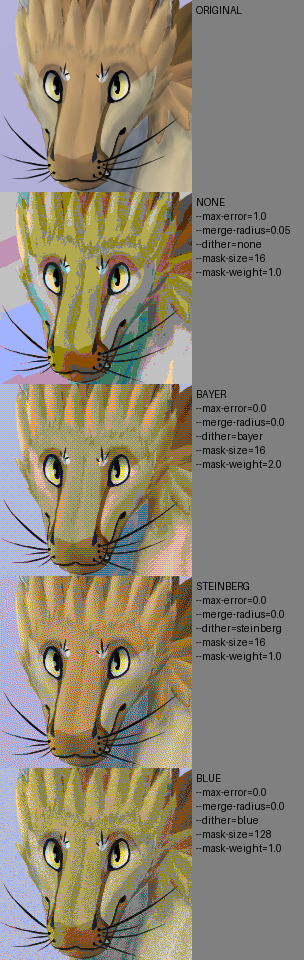
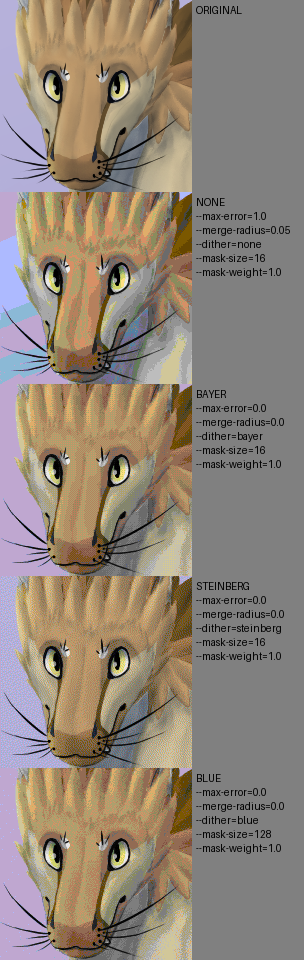
ordered dither gater correction

diff --git a/palette/OkImage.py b/palette/OkImage.py
@@ -278,16 +278,22 @@ class OkImage_Filter:
 
 		#preset.mask_weight rules dither
 		# 0.0 to 1.0 : 0.0 -> palette_gaps
-		# 1.0 to 2.0 : palette_gaps -> palette_gaps_norm
-		max_pal_dist = np.max(pal_dists[:,1])
+		# 1.0 to 2.0 : palette_gaps -> palette_gaps_length
+		#Normalize gater
+		gater = pal_dists[:,1]
+		gater = gater - np.min(gater)
+		max_pal_dist = np.max(gater)
 		gater = pal_dists[:,1]/(max_pal_dist+1e-12)
 		gater = gater[:,None]*[1,1,1]
+		palette_gaps*=gater
 
-		if preset.mask_weight < 1.0:
-			palette_gaps = OkTools.vec3Lerp(np.zeros_like(palette_gaps), palette_gaps, gater)
+		if preset.mask_weight <= 1.0:
+			weight = preset.mask_weight
+			palette_gaps = OkTools.vec3Lerp(np.zeros_like(palette_gaps), palette_gaps, weight)
 		else:
+			weight = preset.mask_weight - 1.0
 			palette_gaps_length = OkTools.vec3Length(palette_gaps,axis=1)[:,None]*[1,1,1]
-			palette_gaps = OkTools.vec3Lerp(palette_gaps, palette_gaps_length, gater)
+			palette_gaps = OkTools.vec3Lerp(palette_gaps, palette_gaps_length, weight)
 
 		#Create dither mask
 		if preset.dither == "bayer":

diff --git a/tools/generate_example.py b/tools/generate_example.py
@@ -58,7 +58,7 @@ def generateExample(_input, _palette):
 			alpha_count		= 1,
 			dither			= method_list[1],
 			mask_size		= 16,
-			mask_weight		= 2.0,
+			mask_weight		= 1.0,
 		),
 		OkImage.Preset(
 			image				= _input,
@@ -135,5 +135,5 @@ if __name__ == '__main__':
 	in_img = in_img.crop( crop_start + crop_end )
 	in_img.save(tmp_crop)
 
-	generateExample(tmp_crop, "palettes/pal64.png")
+	generateExample(tmp_crop, "palettes/pal256.png")
 	os.remove(tmp_crop)
